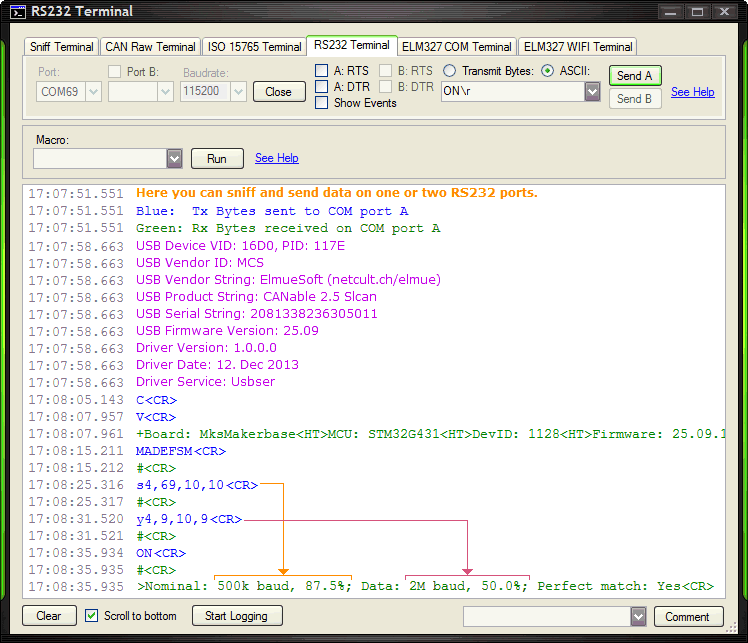
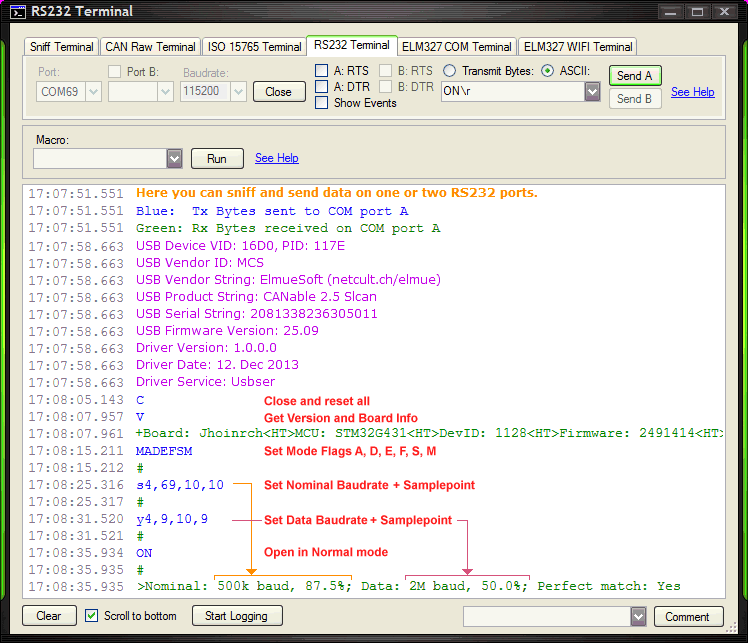
Diagram Update

diff --git a/User & Developer Manual.htm b/User & Developer Manual.htm
@@ -283,7 +283,7 @@
 <div>&nbsp;</div>
 <table border="0" cellspacing="0" cellpadding="10" style="border:solid 2px #007799;">
 <tr><td>
-    <div><img src="https://api.oosmetrics.com/api/v1/badge/achievement/da21943d-acc0-4f0c-84d8-4b68ff45293b.svg" width="408" height="20"></div>
+    <div><img src="Images/OosMetrics.svg" width="408" height="20"></div>
     <p>
     <div>This firmware is ranked under the <b>Top Ten</b> in the embedded category on <a href="https://oosmetrics.com/repo/Elmue/CANable-2.5-firmware-Slcan-and-Candlelight" target="_blank">oosmetrics</a>.</div>
 </td></tr>
@@ -301,7 +301,7 @@
 <h3>CANable v2.0 Adapters</h3>
 
 <div>The newer CANable 2.0 adapters with STM32<span class="Error">G</span>xxx processors support CAN FD with up to 5 Mbaud, 8 Mbaud or 10 Mbaud.</div>
-<div>The majority of adapters listed below completely isolate the CAN side from the USB side. Several adapters use the chips:</div>
+<div>The majority of adapters listed below completely isolate the CAN side from the USB side. Several adapters use these chips:</div>
 <ul>
 <li><div>The ADM3050E is an isolated CAN Transceiver (<a href="Images/Datasheet ADM3050E Isolated CAN Transceiver.pdf" target="_blank">Datasheet</a>)</div>
 <li><div>The B05050S-1WR3 is an isolated DC-DC Converter (<a href="Images/Datasheet Hi-Link B05050S-1WR3 Isolated DC-DC Converter.pdf" target="_blank">Datasheet</a>).</div>
@@ -407,8 +407,16 @@
 <table>
 <tr><td>
     <table class="TblImage">
-        <tr><td><img src="Images/CANable 2.0 Diagram.png" alt="CANable 2.0 diagram" width="141" height="90"></td></tr>
-        <tr><td class="Center"><span class="Link" onClick="ShowFullSize(this, 'Images/CANable 2.0 Diagram.png')">Show Full Size</span></td></tr>
+        <tr><td align="center"><b>Wrong Hardware</b></td></tr>
+        <tr><td><img src="Images/Hardware Design Wrong.png" alt="STM32G4xx Wrong Hardware Design" width="147" height="90"></td></tr>
+        <tr><td class="Center"><span class="Link" onClick="ShowFullSize(this, 'Images/Hardware Design Wrong.png')">Show Full Size</span></td></tr>
+    </table>
+</td>
+<td>
+    <table class="TblImage">
+        <tr><td align="center"><b>Correct Hardware</b></td></tr>
+        <tr><td><img src="Images/Hardware Design Correct.png" alt="STM32G4xx Correct Hardware Design" width="118" height="90"></td></tr>
+        <tr><td class="Center"><span class="Link" onClick="ShowFullSize(this, 'Images/Hardware Design Correct.png')">Show Full Size</span></td></tr>
     </table>
 </td></tr>
 </table>